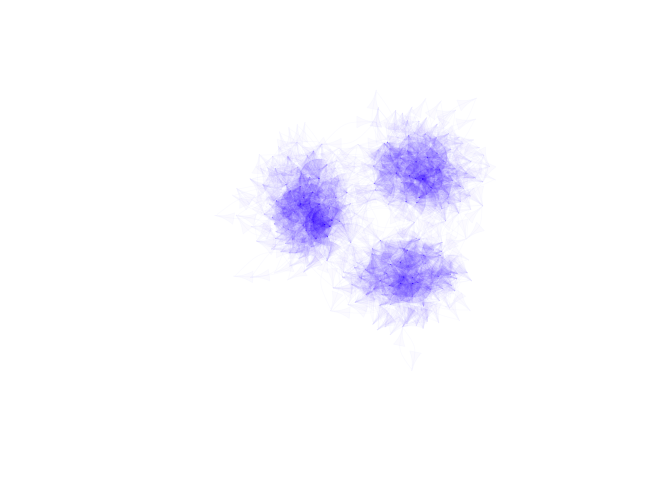
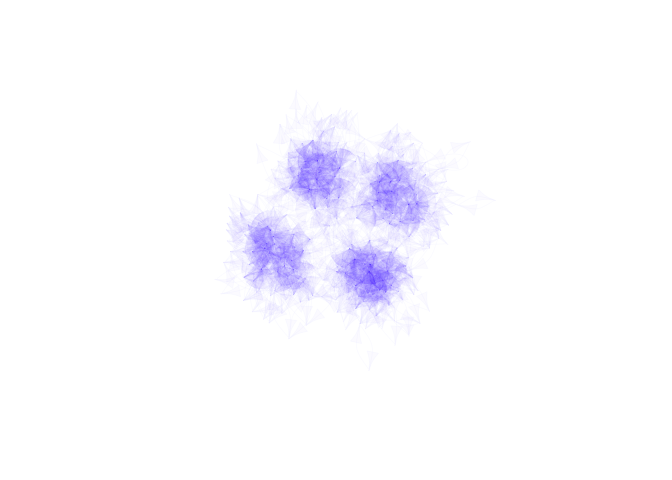
use Title

Changed region(s): [[0.3438, 0.25, 0.7188, 0.6875]]

diff --git a/README.md b/README.md
@@ -1,3 +1,5 @@
+EcoNetGen
+================
 
 [![Travis-CI Build
 Status](https://travis-ci.org/cboettig/EcoNetGen.svg?branch=master)](https://travis-ci.org/cboettig/EcoNetGen)
@@ -9,8 +11,6 @@ Status](https://img.shields.io/codecov/c/github/cboettig/EcoNetGen/master.svg)](
 [![lifecycle](https://img.shields.io/badge/lifecycle-experimental-orange.svg)](https://www.tidyverse.org/lifecycle/#experimental)
 
 <!-- README.md is generated from README.Rmd. Please edit that file -->
-
-# EcoNetGen
 
 ## Installation
 
@@ -35,9 +35,9 @@ network <- netgen(n_modav = c(250, 20),
                   net_rewire = c(0.07,0.2),
                   mod_probs = c(0.2, 0.0, 0.3, 0.3, 0.2, 0.0, 0.0))
 #> 
-#> module count = 3 
-#> average degree = 9.932 
-#> average module size = 83.3333333333333 
+#> module count = 4 
+#> average degree = 7.948 
+#> average module size = 62.5 
 #> number of components = 1 
 #> size of largest component = 250
 ```
@@ -77,7 +77,7 @@ number of modules:
 ``` r
 community <- cluster_edge_betweenness(as.undirected(network))
 length(groups(community))
-#> [1] 3
+#> [1] 4
 ```
 
 We can check the size of each module as well:
@@ -85,13 +85,13 @@ We can check the size of each module as well:
 ``` r
 module_sizes <- sapply(groups(community), length)
 module_sizes
-#>  1  2  3 
-#> 82 72 96
+#>  1  2  3  4 
+#> 62 65 61 62
 mean(module_sizes)
-#> [1] 83.33333
+#> [1] 62.5
 ```
 
 ``` r
 mean(degree(as.undirected(network)))
-#> [1] 9.952
+#> [1] 7.968
 ```
